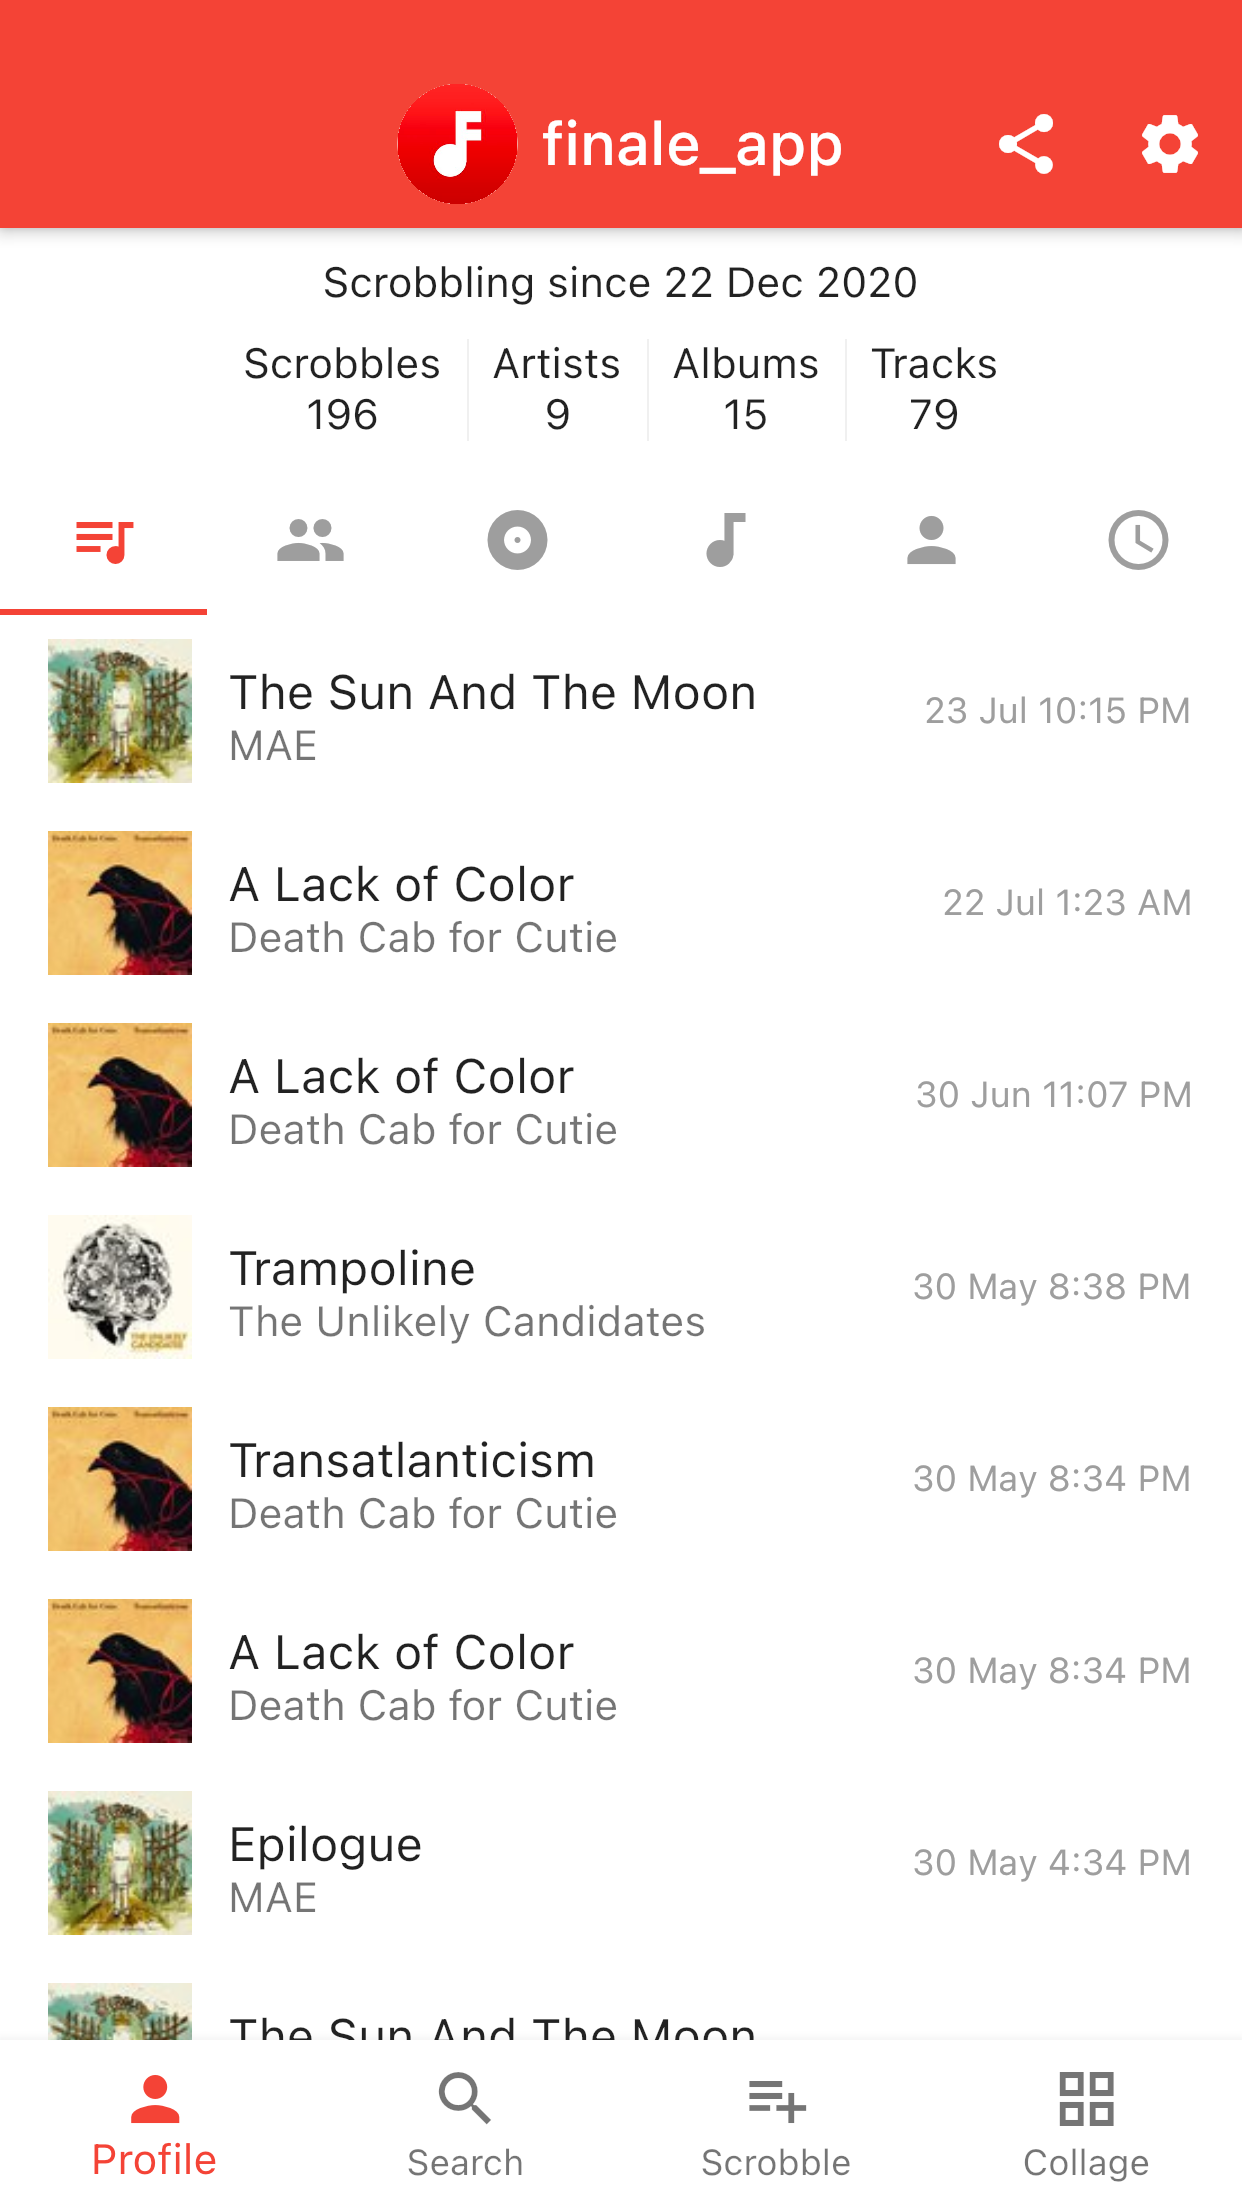
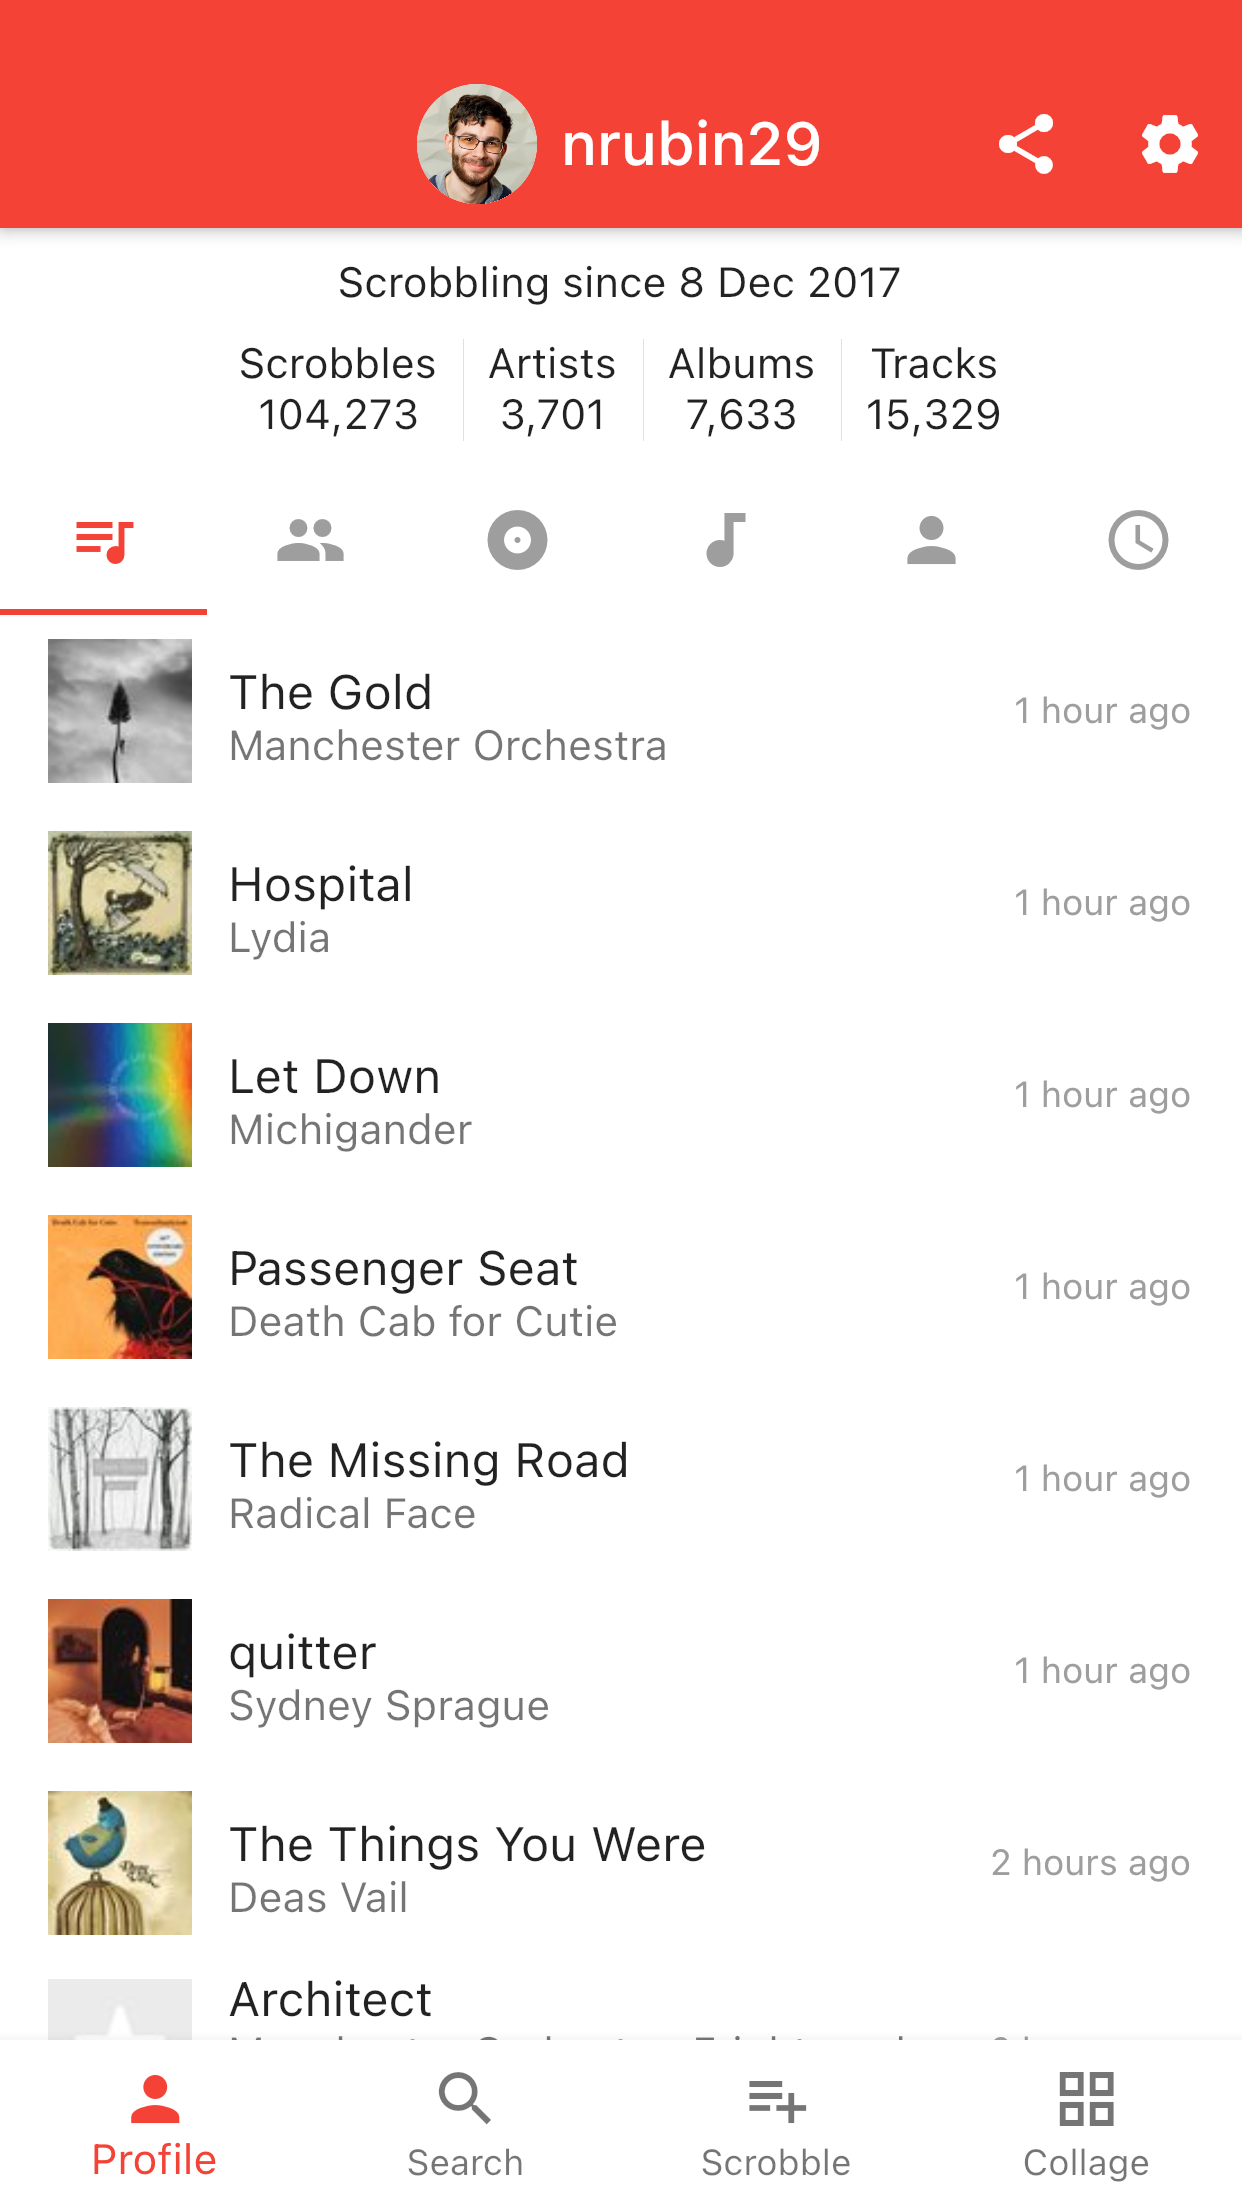
Screenshot test now uses my personal account

diff --git a/integration_test/screenshot_test.dart b/integration_test/screenshot_test.dart
@@ -103,18 +103,11 @@ Future<void> main() async {
     await pumpWidget(tester, MainView(username: testName));
     await tester.tap(find.byIcon(Icons.access_time));
     await tester.pumpAndSettle();
-
-    var foundWeek = false;
-
-    do {
-      foundWeek = find.text('19 Apr - 25 Apr 2021').evaluate().isNotEmpty;
-
-      if (!foundWeek) {
-        await tester.tap(find.byIcon(Icons.chevron_left));
-        await tester.pumpAndSettle();
-      }
-    } while (!foundWeek);
-
+    await tester.tap(find.byIcon(Icons.chevron_left));
+    await tester.pumpAndSettle();
+    await tester.tap(find.byIcon(Icons.chevron_left));
+    await tester.pumpAndSettle();
+    await tester.pumpMany();
     await tester.pumpMany();
     await saveScreenshot('3_weekly_track');
   });
